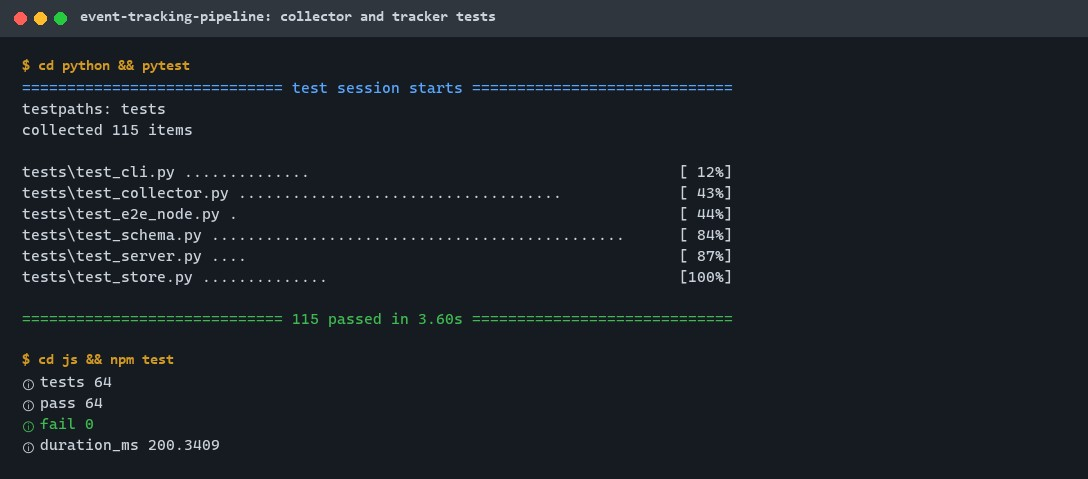
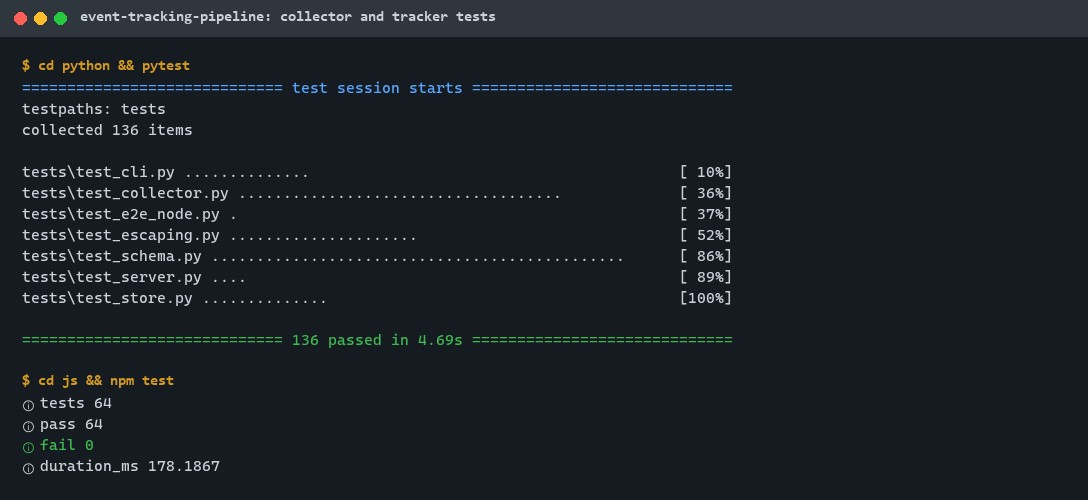
fix(security): escape and cap client text in collector messages and CLI output

diff --git a/python/tests/test_escaping.py b/python/tests/test_escaping.py
@@ -1,0 +1,113 @@
+"""Untrusted text (ANSI escapes, newlines, long keys) never reaches messages or the terminal raw."""
+
+from __future__ import annotations
+
+import json
+from collections.abc import Iterator
+from pathlib import Path
+
+import pytest
+from helpers import make_event
+
+from event_tracking_pipeline import Collector, DeadLetter, EventStore, EventValidator
+from event_tracking_pipeline.cli import main
+from event_tracking_pipeline.text import printable, quote, quote_list
+
+ANSI = "\x1b[31mred\x1b[0m"
+CLEAR = "\x1b[2J\x1b[H"
+NASTY = [ANSI, "line1\nline2\r", "bidi" + chr(0x202E) + "evil", "bell" + chr(7), "nul" + chr(0)]
+
+
+def is_safe(text: str) -> bool:
+    """True when every character is printable (no ESC, CR, LF, bidi controls)."""
+    return text.isprintable()
+
+
+@pytest.mark.parametrize("raw", NASTY)
+def test_printable_escapes_control_characters(raw: str) -> None:
+    out = printable(raw)
+    assert is_safe(out)
+    assert out != raw
+
+
+def test_printable_keeps_normal_text_and_caps_length() -> None:
+    assert printable("José 山田 ok") == "José 山田 ok"
+    assert printable("x" * 100, 10) == "x" * 10 + "..."
+    assert printable("\ud800") == "\\ud800"
+
+
+def test_quote_and_quote_list() -> None:
+    assert quote(ANSI) == '"\\u001b[31mred\\u001b[0m"'
+    assert len(quote("k" * 10_000)) == 64 + 3
+    assert quote_list(["b", "a"]) == '"a", "b"'
+    assert quote_list([f"k{i:02}" for i in range(8)]).endswith('"k04" and 3 more')
+
+
+@pytest.fixture
+def store() -> Iterator[EventStore]:
+    """In-memory store."""
+    s = EventStore(":memory:")
+    yield s
+    s.close()
+
+
+@pytest.mark.parametrize("key", NASTY)
+def test_unknown_envelope_key_is_escaped(store: EventStore, key: str) -> None:
+    body = json.dumps({"events": [make_event()], key: 1}).encode()
+    r = Collector(store).ingest(body)
+    assert r.status == 400
+    assert r.error is not None
+    assert r.error.startswith("unknown envelope fields: ")
+    assert is_safe(r.error)
+    for _, detail, _ in store.dead_letters():
+        assert is_safe(detail)
+
+
+def test_many_long_envelope_keys_give_a_bounded_message(store: EventStore) -> None:
+    keys = {f"{i:02}" + "k" * 10_000: i for i in range(50)}
+    body = json.dumps({"events": [make_event()], **keys}).encode()
+    r = Collector(store).ingest(body)
+    assert r.error is not None
+    assert r.error.endswith(" and 45 more")
+    assert len(r.error) < 500
+
+
+@pytest.mark.parametrize("raw", NASTY)
+def test_schema_problems_are_escaped(raw: str) -> None:
+    problems = EventValidator().problems(make_event(name=raw, properties={raw: 1}, extra_field=raw))
+    assert problems
+    for p in problems:
+        assert is_safe(p.path)
+        assert is_safe(p.message)
+
+
+def test_long_property_name_path_is_capped() -> None:
+    key = "a" * 5000
+    problems = EventValidator().problems(make_event(properties={key: [1]}))
+    assert all(len(p.path) < 200 for p in problems)
+
+
+def test_report_escapes_stored_text(tmp_path: Path, capsys: pytest.CaptureFixture[str]) -> None:
+    db = tmp_path / "e.sqlite3"
+    s = EventStore(db)
+    # Rows as an older version (or a manual edit) could have left them: raw control characters.
+    s.write_batch(
+        [],
+        [DeadLetter(f"schema{ANSI}", f"{CLEAR}/name: bad\nFAKE LINE", "{}")],
+        "2026-11-14T10:00:00Z",
+    )
+    s.close()
+    assert main(["report", "--db", str(db)], env={}) == 0
+    out = capsys.readouterr().out
+    assert "\x1b" not in out
+    assert "\nFAKE LINE" not in out
+    assert "\\x1b[2J" in out
+
+
+def test_validate_escapes_problems(tmp_path: Path, capsys: pytest.CaptureFixture[str]) -> None:
+    f = tmp_path / "b.json"
+    f.write_text(json.dumps([make_event(name=CLEAR, properties={ANSI: 1})]), encoding="utf-8")
+    assert main(["validate", str(f)], env={}) == 1
+    out = capsys.readouterr().out
+    assert "\x1b" not in out
+    assert len(out.splitlines()) == 2

diff --git a/python/src/event_tracking_pipeline/cli.py b/python/src/event_tracking_pipeline/cli.py
@@ -14,6 +14,7 @@ from .collector import Collector
 from .schema import EventValidator
 from .server import build_server
 from .store import EventStore
+from .text import printable
 
 MAX_FILE_BYTES = 10_000_000
 
@@ -84,14 +85,14 @@ def _report(args: argparse.Namespace) -> int:
     try:
         print(f"events stored: {store.count_events()}")
         for name, count in store.events_by_name():
-            print(f"  {name}: {count}")
+            print(f"  {printable(name, 128)}: {count}")
         summary = store.dead_letter_summary()
         print(f"dead letters: {sum(n for _, n, _ in summary)} rows")
         for reason, rows, seen in summary:
-            print(f"  {reason}: {rows} rows, seen {seen} times")
+            print(f"  {printable(reason, 64)}: {rows} rows, seen {seen} times")
         if summary:
             for reason, detail, seen in store.dead_letters(args.recent):
-                print(f"  - [{reason}] x{seen} {detail[:150]}")
+                print(f"  - [{printable(reason, 64)}] x{seen} {printable(detail, 150)}")
     finally:
         store.close()
     return 0
@@ -115,7 +116,7 @@ def _validate(args: argparse.Namespace) -> int:
     for i, event in enumerate(events):
         problems = validator.problems(event)
         bad += bool(problems)
-        status = "ok" if not problems else "; ".join(str(p) for p in problems)
+        status = "ok" if not problems else printable("; ".join(str(p) for p in problems))
         print(f"event {i}: {status}")
     print(f"{len(events) - bad} valid, {bad} invalid")
     return 1 if bad else 0

diff --git a/python/src/event_tracking_pipeline/collector.py b/python/src/event_tracking_pipeline/collector.py
@@ -13,6 +13,7 @@ from typing import Any
 
 from .schema import EventValidator
 from .store import DeadLetter, EventStore
+from .text import printable, quote_list
 
 LOG = logging.getLogger("event_tracking_pipeline.collector")
 
@@ -98,7 +99,7 @@ class Collector:
         try:
             batch = json.loads(body, parse_constant=_reject_constant)
         except (ValueError, RecursionError) as exc:
-            dead = DeadLetter("invalid_json", str(exc)[:200], raw)
+            dead = DeadLetter("invalid_json", printable(str(exc), 200), raw)
             return self._write([], [dead], received_at, error="body is not valid JSON")
         problem = self._envelope_problem(batch)
         if problem:
@@ -121,7 +122,7 @@ class Collector:
             return "body must be a JSON object"
         unknown = set(batch) - {"events", "sent_at"}
         if unknown:
-            return f"unknown envelope fields: {', '.join(sorted(unknown))}"
+            return f"unknown envelope fields: {quote_list(unknown)}"
         events = batch.get("events")
         if not isinstance(events, list) or not events:
             return "events must be a non-empty array"

diff --git a/python/src/event_tracking_pipeline/schema.py b/python/src/event_tracking_pipeline/schema.py
@@ -10,6 +10,8 @@ from typing import Any, cast
 
 from jsonschema import Draft202012Validator
 
+from .text import MAX_VALUE, printable
+
 SCHEMA_VERSION = 1
 MAX_PROBLEMS = 10
 MAX_MESSAGE = 200
@@ -41,7 +43,7 @@ def load_schema(version: int = SCHEMA_VERSION) -> dict[str, Any]:
 
 def _pointer(parts: Any) -> str:
     """JSON-pointer-like path of an error location."""
-    return "".join(f"/{p}" for p in parts)
+    return "".join(f"/{printable(str(p), MAX_VALUE)}" for p in parts)
 
 
 def _parse_utc(value: str) -> datetime | None:
@@ -75,7 +77,9 @@ class EventValidator:
         errors = sorted(
             self._validator.iter_errors(event), key=lambda e: [str(p) for p in e.absolute_path]
         )
-        found = [Problem(_pointer(e.absolute_path), e.message[:MAX_MESSAGE]) for e in errors]
+        found = [
+            Problem(_pointer(e.absolute_path), printable(e.message)[:MAX_MESSAGE]) for e in errors
+        ]
         if not found and isinstance(event, dict):
             if _parse_utc(event["timestamp"]) is None:
                 found.append(Problem("/timestamp", "not a calendar date and time"))

diff --git a/python/src/event_tracking_pipeline/text.py b/python/src/event_tracking_pipeline/text.py
@@ -1,0 +1,32 @@
+"""Make untrusted text safe to put in messages and print to a terminal."""
+
+from __future__ import annotations
+
+import json
+from collections.abc import Iterable
+
+MAX_VALUE = 64
+MAX_LISTED = 5
+
+
+def printable(text: str, limit: int | None = None) -> str:
+    """Escape every non-printable character (ANSI ESC, newlines, bidi controls); optionally cap length."""
+    out = "".join(
+        c if c.isprintable() else c.encode("unicode_escape").decode("ascii") for c in text
+    )
+    if limit is not None and len(out) > limit:
+        return out[:limit] + "..."
+    return out
+
+
+def quote(value: str, limit: int = MAX_VALUE) -> str:
+    """JSON-quoted, escaped and length-capped form of one untrusted value."""
+    return printable(json.dumps(value), limit)
+
+
+def quote_list(values: Iterable[str], limit: int = MAX_LISTED) -> str:
+    """Up to `limit` quoted values, sorted, then how many were left out."""
+    items = sorted(values)
+    shown = ", ".join(quote(v) for v in items[:limit])
+    rest = len(items) - limit
+    return f"{shown} and {rest} more" if rest > 0 else shown

diff --git a/python/tests/test_collector.py b/python/tests/test_collector.py
@@ -99,7 +99,7 @@ def test_unparseable_body_is_dead_lettered(
         (b"[]", "body must be a JSON object"),
         (b'{"events": []}', "events must be a non-empty array"),
         (b'{"events": {}}', "events must be a non-empty array"),
-        (b'{"events": [{}], "extra": 1}', "unknown envelope fields: extra"),
+        (b'{"events": [{}], "extra": 1}', 'unknown envelope fields: "extra"'),
         (b'{"events": [{}], "sent_at": "yesterday"}', "sent_at must be an RFC 3339 UTC timestamp"),
         (b'{"events": [{}], "sent_at": 5}', "sent_at must be an RFC 3339 UTC timestamp"),
     ],

diff --git a/docs/quality/2026-11-01.md b/docs/quality/2026-11-01.md
@@ -15,9 +15,9 @@ The code is a JavaScript tracker (`js/src`), a Python collector with SQLite stor
 | 5 | Read before changing | pass | Env vars read: `ETP_DB`, `ETP_HOST`, `ETP_PORT`, `ETP_ALLOWED_ORIGINS` (`cli.py`), all documented in the README and tested in `test_environment_defaults`. APIs used exist in the installed versions (`String.prototype.isWellFormed` and `AbortSignal.timeout` in Node 24, `datetime.UTC` in Python 3.11+, `Draft202012Validator` in jsonschema 4.26). README links checked by `audit_repo.py`. |
 | 6 | Never break compatibility | pass | New repository. The schema is versioned (`schema_version` const 1, file `event.v1.json`); CONTRIBUTING and the RFC say new fields are optional and anything else is a new version. |
 | 7 | One source of truth | pass | One schema file, used by the collector, the CLI `validate` command and the tests; no pydantic models duplicate it (ADR 0002). The tracker's name and property checks mirror the schema's limits and are covered by the e2e run, where the collector validates real tracker output. Version 0.1.0 agrees in `pyproject.toml`, `__init__.py`, `package.json` and `LIBRARY` in `tracker.js`; Python 3.11+ (CI 3.12) and Node.js 24 agree in README, CI and manifests. |
-| 8 | Small changes, no secrets, validate input | pass | No secrets or keys (no third-party SDKs, no real endpoints; test hosts use `.test` and loopback). Input limits: body 256 KB (413), 100 events per batch, `Content-Length` required, NaN/Infinity and nesting depth errors dead-lettered, dead-letter payload capped at 16 KB, CLI ports, origins and file sizes checked. Tracker: names, properties, user ids, event size (32 KB) and every option validated. |
-| 9 | Tests that can actually fail | pass | No skipped or assertion-free tests; the only `skipif` is the e2e test when `node` is missing (reason given). Error and empty paths are covered for each entry point (`ingest`, WSGI routes, CLI, `createTracker`, queue, transport). 15 hand mutations below, all killed. Two real defects were found while writing tests (results doc: lone surrogates crashed the insert; the identify rule fired without a `type`). |
-| 10 | Re-verify | pass | `.tmp/check.sh` twice: ruff `All checks passed!`; mypy `Success: no issues found in 15 source files`; pytest `115 passed`; node `pass 64`, `fail 0`; `E2E PASS`; pip-audit `No known vulnerabilities found`; npm audit `found 0 vulnerabilities`; `CHECK PASS`. `audit_repo.py event-tracking-pipeline`: OK. CI has not run yet (not pushed). |
+| 8 | Small changes, no secrets, validate input | pass | No secrets or keys (no third-party SDKs, no real endpoints; test hosts use `.test` and loopback). Input limits: body 256 KB (413), 100 events per batch, `Content-Length` required, NaN/Infinity and nesting depth errors dead-lettered, dead-letter payload capped at 16 KB, untrusted text in problem messages JSON-quoted and capped (64 characters per value, 5 keys listed) and escaped again before the CLI prints it (`text.py`, `test_escaping.py`), CLI ports, origins and file sizes checked. Tracker: names, properties, user ids, event size (32 KB) and every option validated. |
+| 9 | Tests that can actually fail | pass | No skipped or assertion-free tests; the only `skipif` is the e2e test when `node` is missing (reason given). Error and empty paths are covered for each entry point (`ingest`, WSGI routes, CLI, `createTracker`, queue, transport). 23 hand mutations below: 21 killed, 2 equivalent. Three real defects were found while writing and reviewing tests (results doc: lone surrogates crashed the insert; the identify rule fired without a `type`; unescaped envelope keys and report output allowed terminal escape injection). |
+| 10 | Re-verify | pass | `.tmp/check.sh` twice: ruff `All checks passed!`; mypy `Success: no issues found in 17 source files`; pytest `136 passed`; node `pass 64`, `fail 0`; `E2E PASS`; pip-audit `No known vulnerabilities found`; npm audit `found 0 vulnerabilities`; `CHECK PASS`. `audit_repo.py event-tracking-pipeline`: OK. CI has not run yet (not pushed). |
 
 ## Mutation check
 
@@ -41,5 +41,14 @@ Each mutant was applied alone, that language's full test suite was run, and the 
 | J6 | `setConsent("denied")` | queue not cleared | yes |
 | J7 | `nextBatch` | byte limit doubled | yes |
 | J8 | `EventQueue.recordFailure` | drop after `maxAttempts + 1` failures | yes |
+| E1 | `Collector._envelope_problem` | old behaviour: unknown keys joined raw | yes (7 tests) |
+| E2 | `quote_list` | no limit on listed keys | yes |
+| E3 | `cli._report` | old behaviour: dead-letter detail printed raw | yes |
+| E4 | `cli._report` | reason printed raw | yes |
+| E5 | `schema._pointer` | path parts not escaped | yes |
+| E6 | `printable` | escape only ESC, not CR/LF, bidi, BEL, NUL | yes (6 tests) |
+| E7 | `EventValidator.problems` | message not passed through `printable` | equivalent: jsonschema 4.26 puts instance values into messages with `repr`, which already escapes non-printable characters; kept as defence if the library changes |
+| E8 | `Collector.ingest` | JSON error text not passed through `printable` | equivalent: `json` error messages give positions, never input text |
 
-Score: 15/15 killed; no test had to be added for a surviving mutant.
+Score: 21/23 killed, 2 equivalent (E7, E8, reasons above). E1 to E8 were added with the escaping fix;
+E1 and E3 restore the exact behaviour the security review reported, and both fail the new tests.

diff --git a/docs/results/m1.md b/docs/results/m1.md
@@ -22,9 +22,9 @@ The full check ran twice with the same result.
 
 | Check | Result |
 |---|---|
-| ruff, ruff format | `All checks passed!`, `16 files already formatted` |
-| mypy --strict | `Success: no issues found in 15 source files` |
-| pytest | `115 passed` (about 4 s) |
+| ruff, ruff format | `All checks passed!`, `18 files already formatted` |
+| mypy --strict | `Success: no issues found in 17 source files` |
+| pytest | `136 passed` (about 5 s) |
 | node --test | `tests 64`, `pass 64`, `fail 0` |
 | End to end, 200 events | `E2E PASS` (see below) |
 | pip-audit | `No known vulnerabilities found` |
@@ -53,7 +53,7 @@ pattern, `/name` does not match the name pattern, `/timestamp` is not a calendar
   `dead_letters` (3 schema + 1 body); replaying a batch adds nothing.
 - The tracker lost nothing across an offline start and a network drop; the 21st request is the one
   retry.
-- Defects found while building M1 (both fixed, with tests):
+- Defects found while building and reviewing M1 (all fixed, with tests):
   1. An event whose strings held a lone surrogate (JSON escape `\ud800`) passed the schema and then
      crashed the SQLite insert with `UnicodeEncodeError`, which is not a `sqlite3.Error`, so the
      request would have failed with HTTP 500 instead of being dead-lettered. The validator now
@@ -62,14 +62,21 @@ pattern, `/name` does not match the name pattern, `/timestamp` is not a calendar
   2. The schema's "identify needs user_id" rule fired on events with no `type` at all (an `if`
      without `required` matches vacuously), giving a misleading second error. The `if` now requires
      `type`.
+  3. Terminal escape injection (found in a security review): unknown envelope keys sent by a
+     client went into the 400 message and the dead-letter detail as they were, and
+     `etp-collector report` printed stored details without escaping, so a client could put ANSI
+     escape sequences or fake lines into an operator's terminal. Now every untrusted value in a
+     problem message is JSON-quoted and capped at 64 characters, at most 5 keys are listed (then
+     "and N more"), JSON pointer parts are escaped, and the CLI escapes every non-printable
+     character before printing (`text.py`).
 
 ## Improve and Control
 
-- Improvements are the two fixes above; each has a test that fails without it.
+- Improvements are the three fixes above; each has a test that fails without it.
 - Control: `make lint` (ruff, mypy --strict, node --check), `make test`, the e2e step and the audit
   run in CI on every push; the e2e step prints its result as a `::notice` (or `::error`). The schema
   is one file used by the collector, the CLI and the tests.
-- Hand mutations of 15 core functions were all killed: see
+- 23 hand mutations: 21 killed, 2 shown equivalent; see
   [docs/quality/2026-11-01.md](../quality/2026-11-01.md).
 
 ## Tests
@@ -81,13 +88,14 @@ pattern, `/name` does not match the name pattern, `/timestamp` is not a calendar
 | `python/tests/test_collector.py` | 36 | Mixed batches split into stored and dead-lettered; invalid JSON, NaN, deep nesting and bad envelopes are dead-lettered with 400; store failure gives 503; HTTP 404/405/411/413/415; CORS only for allowed origins |
 | `python/tests/test_server.py` | 4 | Real HTTP on 127.0.0.1; 6 concurrent clients sending overlapping batches store 120 events exactly; port range |
 | `python/tests/test_cli.py` | 14 | `validate` and `report` output and exit codes; `ETP_*` environment defaults; bad ports and origins refused |
+| `python/tests/test_escaping.py` | 21 | ANSI escapes, CR/LF, bidi override, BEL and NUL in envelope keys, event fields and stored dead letters are escaped in messages, `report` and `validate`; 50 keys of 10,000 characters give a message under 500 characters |
 | `python/tests/test_e2e_node.py` | 1 | The tracker in Node.js delivers 60 events to the collector with the counts above (skipped only if `node` is missing) |
 | `js/test/tracker.test.js` | 41 | Event shape; batching and byte limits; consent pending, granted, denied and GPC; offline; retry and backoff; 4xx not retried; drop after `maxAttempts`; reload from storage; races with consent changes and new events during a send; invalid calls |
 | `js/test/queue.test.js` | 15 | Bounded queue, removal by id, attempt counting, persistence and corrupt storage |
 | `js/test/backoff.test.js` | 4 | Exponential growth, cap, jitter range, invalid arguments |
 | `js/test/transport.test.js` | 4 | POST shape without credentials, timeout abort, network errors, bad endpoints |
 
-Total: 115 Python and 64 JavaScript tests.
+Total: 136 Python and 64 JavaScript tests.
 
 ## Not measured or CI-only
 

diff --git a/README.md b/README.md
@@ -9,7 +9,7 @@ Part of my **Data Engineering** list · Python · JS · core project
 
 ## Proof it works
 
-115 Python and 64 JavaScript tests pass, and the dependency audits are clean:
+136 Python and 64 JavaScript tests pass, and the dependency audits are clean:
 
 ![pytest and node --test](docs/proof/tests.jpg)
 
@@ -145,7 +145,7 @@ Latest local run (full detail in [docs/results/m1.md](docs/results/m1.md)):
 
 | Check | Result |
 |---|---|
-| pytest | 115 passed |
+| pytest | 136 passed |
 | node --test | 64 passed, 0 failed |
 | End to end, 200 events | 200 sent in 21 requests (one retry after a simulated drop); 201 stored, 4 dead letters, as expected |
 | Replay of a delivered batch | `accepted 0, duplicates 10` |
@@ -159,6 +159,7 @@ Latest local run (full detail in [docs/results/m1.md](docs/results/m1.md)):
 | `python/tests/test_collector.py` | 36 | Good events stored, bad ones dead-lettered; HTTP 400/404/405/411/413/415/503; CORS only for allowed origins |
 | `python/tests/test_server.py` | 4 | Real HTTP on 127.0.0.1; 6 concurrent clients with overlapping retries store exactly 120 events |
 | `python/tests/test_cli.py` | 14 | `validate`, `report`, environment defaults, bad arguments |
+| `python/tests/test_escaping.py` | 21 | ANSI escapes, newlines, bidi and NUL characters and very long keys never reach problem messages or terminal output raw |
 | `python/tests/test_e2e_node.py` | 1 | The JS tracker delivers to the collector with exact counts |
 | `js/test/tracker.test.js` | 41 | Event shape, batching, consent, GPC, offline, retry and backoff, 4xx, attempt limit, reload, in-flight races, invalid calls |
 | `js/test/queue.test.js` | 15 | Bounded queue, removal by id, attempt counts, persistence, corrupt storage |
@@ -166,10 +167,11 @@ Latest local run (full detail in [docs/results/m1.md](docs/results/m1.md)):
 | `js/test/transport.test.js` | 4 | Request shape, timeout, network errors, bad endpoints |
 
 What the numbers show: across an offline start and a network drop the tracker lost nothing, and
-every event the collector received is either stored or dead-lettered with a reason. Two defects found
-while writing the tests were fixed (lone surrogates crashed the SQLite insert; the identify rule fired
-on events without a `type`). CI has not run yet (not pushed), and no browser was used: the tracker is
-tested in Node.js. Quality check against the 10 rules, with 15 hand mutations, all killed:
+every event the collector received is either stored or dead-lettered with a reason. Three defects found
+while writing and reviewing the tests were fixed (lone surrogates crashed the SQLite insert; the
+identify rule fired on events without a `type`; client-sent envelope keys reached error messages and
+the `report` output unescaped, so ANSI escape sequences could reach an operator's terminal). CI has not run yet (not pushed), and no browser was used: the tracker is
+tested in Node.js. Quality check against the 10 rules, with 23 hand mutations (21 killed, 2 shown equivalent):
 [docs/quality/2026-11-01.md](docs/quality/2026-11-01.md).
 
 ## Roadmap
@@ -232,6 +234,7 @@ nothing is sent to any analytics service, and the end-to-end script only accepts
 - Every GitHub Action is pinned to a commit SHA; workflows run read-only, without persisted credentials.
 - Dependabot update pull requests are paused (`open-pull-requests-limit: 0`) so the repository keeps a single `main` branch; dependencies are updated by hand and checked by the CI audit.
 - The collector binds to 127.0.0.1 by default, caps bodies and batches, and sends CORS headers only to configured origins.
+- Untrusted text (envelope keys, property names, stored dead-letter details) is JSON-quoted or escaped and length-capped before it goes into a message or is printed.
 - Report vulnerabilities privately: see [SECURITY.md](SECURITY.md). To contribute, see [CONTRIBUTING.md](CONTRIBUTING.md).
 
 ## License
